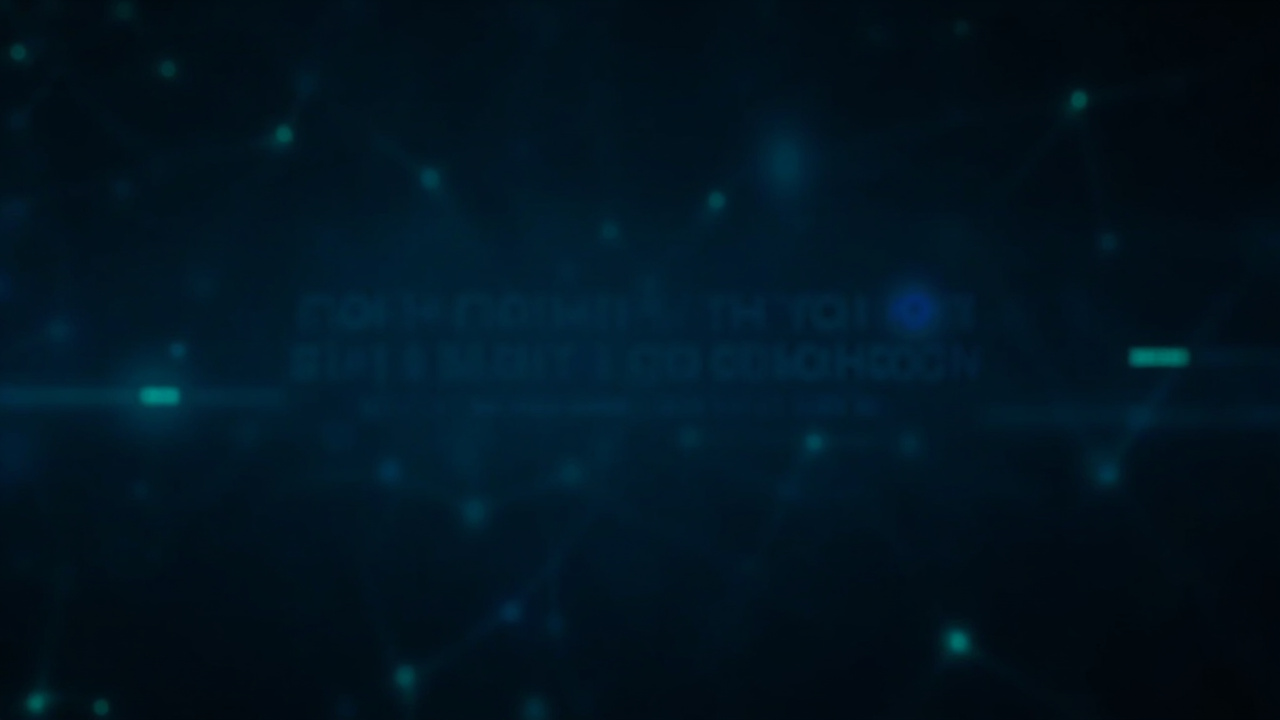
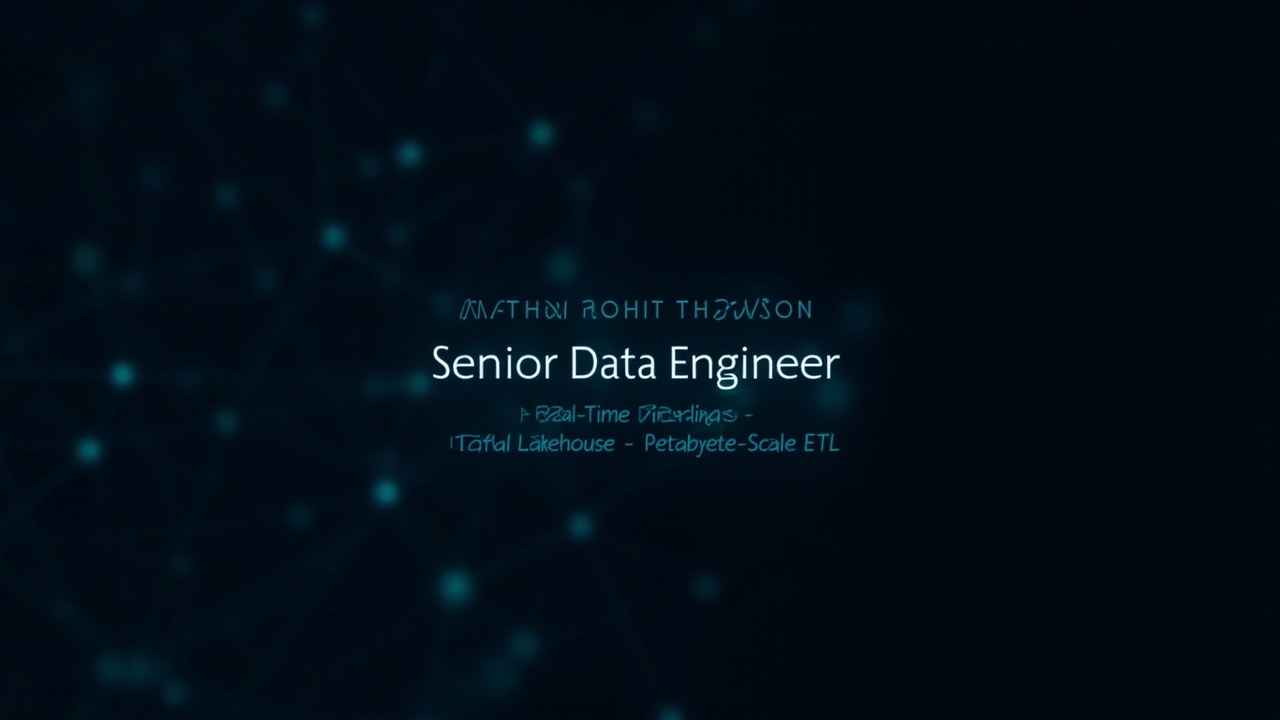
fix: correct name order to 'Mathew Rohit Thomson' everywhere in SEO metadata and regenerate OG image with correct name

diff --git a/docs/index.html b/docs/index.html
@@ -3,59 +3,13 @@
   <head>
     <meta charset="UTF-8" />
     <meta name="viewport" content="width=device-width, initial-scale=1.0, maximum-scale=1" />
-    <title>Rohit Mathew Thomson | Senior Data Engineer | Real-Time Pipelines &amp; Data Platform</title>
-    <meta name="description" content="Senior Data Engineer with expertise in real-time streaming, data lakehouse architecture, and petabyte-scale ETL. Open to FAANG &amp; top-tier roles." />
-    <!-- Open Graph / LinkedIn & Slack previews -->
-    <meta property="og:type" content="website" />
-    <meta property="og:url" content="https://mrohitth.github.io/my-website/" />
-    <meta property="og:title" content="Rohit Mathew Thomson | Senior Data Engineer" />
-    <meta property="og:description" content="Senior Data Engineer specializing in real-time pipelines, data lakehouse architecture, and large-scale ETL systems." />
-    <meta property="og:image" content="https://mrohitth.github.io/my-website/og-image.png" />
-    <meta property="og:image:width" content="1200" />
-    <meta property="og:image:height" content="630" />
-    <!-- Twitter Card -->
-    <meta name="twitter:card" content="summary_large_image" />
-    <meta name="twitter:site" content="@mrohitth" />
-    <meta name="twitter:title" content="Rohit Mathew Thomson | Senior Data Engineer" />
-    <meta name="twitter:description" content="Senior Data Engineer specializing in real-time pipelines, data lakehouse, and large-scale ETL." />
-    <meta name="twitter:image" content="https://mrohitth.github.io/my-website/og-image.png" />
-    <!-- Canonical -->
-    <link rel="canonical" href="https://mrohitth.github.io/my-website/" />
-    <!-- Google Fonts -->
     <link rel="preconnect" href="https://fonts.googleapis.com">
     <link rel="preconnect" href="https://fonts.gstatic.com" crossorigin>
     <link href="https://fonts.googleapis.com/css2?family=Architects+Daughter&family=DM+Sans:ital,opsz,wght@0,9..40,100..1000;1,9..40,100..1000&family=Fira+Code:wght@300..700&family=Geist+Mono:wght@100..900&family=Geist:wght@100..900&family=IBM+Plex+Mono:ital,wght@0,100;0,200;0,300;0,400;0,500;0,600;0,700;1,100;1,200;1,300;1,400;1,500;1,600;1,700&family=IBM+Plex+Sans:ital,wght@0,100..700;1,100..700&family=Inter:ital,opsz,wght@0,14..32,100..900;1,14..32,100..900&family=JetBrains+Mono:ital,wght@0,100..800;1,100..800&family=Libre+Baskerville:ital,wght@0,400;0,700;1,400&family=Lora:ital,wght@0,400..700;1,400..700&family=Merriweather:ital,opsz,wght@0,18..144,300..900;1,18..144,300..900&family=Montserrat:ital,wght@0,100..900;1,100..900&family=Open+Sans:ital,wght@0,300..800;1,300..800&family=Outfit:wght@100..900&family=Oxanium:wght@200..800&family=Playfair+Display:ital,wght@0,400..900;1,400..900&family=Plus+Jakarta+Sans:ital,wght@0,200..800;1,200..800&family=Poppins:ital,wght@0,100;0,200;0,300;0,400;0,500;0,600;0,700;0,800;0,900;1,100;1,200;1,300;1,400;1,500;1,600;1,700;1,800;1,900&family=Roboto+Mono:ital,wght@0,100..700;1,100..700&family=Roboto:ital,wght@0,100..900;1,100..900&family=Source+Code+Pro:ital,wght@0,200..900;1,200..900&family=Source+Serif+4:ital,opsz,wght@0,8..60,200..900;1,8..60,200..900&family=Space+Grotesk:wght@300..700&family=Space+Mono:ital,wght@0,400;0,700;1,400;1,700&display=swap" rel="stylesheet">
-    <!-- JSON-LD Person Schema -->
-    <script type="application/ld+json">
-    {
-      "@context": "https://schema.org",
-      "@type": "Person",
-      "name": "Rohit Mathew Thomson",
-      "jobTitle": "Senior Data Engineer",
-      "url": "https://mrohitth.github.io/my-website/",
-      "sameAs": [
-        "https://github.com/mrohitth",
-        "https://www.linkedin.com/in/mrohitth/",
-        "https://twitter.com/mrohitth"
-      ],
-      "email": "mathew.rohit.thomson@gmail.com",
-      "address": {
-        "@type": "PostalAddress",
-        "addressLocality": "Virginia",
-        "addressRegion": "VA",
-        "addressCountry": "US"
-      }
-    }
-    </script>
-    <script type="module" crossorigin src="/my-website/assets/index-D5RAnQF4.js"></script>
-    <link rel="modulepreload" crossorigin href="/my-website/assets/vendor-react-BAauGlvZ.js">
-    <link rel="modulepreload" crossorigin href="/my-website/assets/vendor-framer-BVfbUvQ7.js">
-    <link rel="modulepreload" crossorigin href="/my-website/assets/vendor-radix-CFSviMhu.js">
-    <link rel="modulepreload" crossorigin href="/my-website/assets/vendor-charts-BWFHVhLw.js">
-    <link rel="modulepreload" crossorigin href="/my-website/assets/sandbox-CUmx2CJ4.js">
-    <link rel="stylesheet" crossorigin href="/my-website/assets/index-D9kQ37Ks.css">
+    <script type="module" crossorigin src="/my-website/assets/index-j3yBtSUG.js"></script>
+    <link rel="stylesheet" crossorigin href="/my-website/assets/index-CCB_FhGT.css">
   </head>
   <body>
     <div id="root"></div>
-  </body>
+      </body>
 </html>

diff --git a/client/index.html b/client/index.html
@@ -3,12 +3,12 @@
   <head>
     <meta charset="UTF-8" />
     <meta name="viewport" content="width=device-width, initial-scale=1.0, maximum-scale=1" />
-    <title>Rohit Mathew Thomson | Senior Data Engineer | Real-Time Pipelines &amp; Data Platform</title>
+    <title>Mathew Rohit Thomson | Senior Data Engineer | Real-Time Pipelines &amp; Data Platform</title>
     <meta name="description" content="Senior Data Engineer with expertise in real-time streaming, data lakehouse architecture, and petabyte-scale ETL. Open to FAANG &amp; top-tier roles." />
     <!-- Open Graph / LinkedIn & Slack previews -->
     <meta property="og:type" content="website" />
     <meta property="og:url" content="https://mrohitth.github.io/my-website/" />
-    <meta property="og:title" content="Rohit Mathew Thomson | Senior Data Engineer" />
+    <meta property="og:title" content="Mathew Rohit Thomson | Senior Data Engineer" />
     <meta property="og:description" content="Senior Data Engineer specializing in real-time pipelines, data lakehouse architecture, and large-scale ETL systems." />
     <meta property="og:image" content="https://mrohitth.github.io/my-website/og-image.png" />
     <meta property="og:image:width" content="1200" />
@@ -16,7 +16,7 @@
     <!-- Twitter Card -->
     <meta name="twitter:card" content="summary_large_image" />
     <meta name="twitter:site" content="@mrohitth" />
-    <meta name="twitter:title" content="Rohit Mathew Thomson | Senior Data Engineer" />
+    <meta name="twitter:title" content="Mathew Rohit Thomson | Senior Data Engineer" />
     <meta name="twitter:description" content="Senior Data Engineer specializing in real-time pipelines, data lakehouse, and large-scale ETL." />
     <meta name="twitter:image" content="https://mrohitth.github.io/my-website/og-image.png" />
     <!-- Canonical -->
@@ -30,7 +30,7 @@
     {
       "@context": "https://schema.org",
       "@type": "Person",
-      "name": "Rohit Mathew Thomson",
+      "name": "Mathew Rohit Thomson",
       "jobTitle": "Senior Data Engineer",
       "url": "https://mrohitth.github.io/my-website/",
       "sameAs": [
